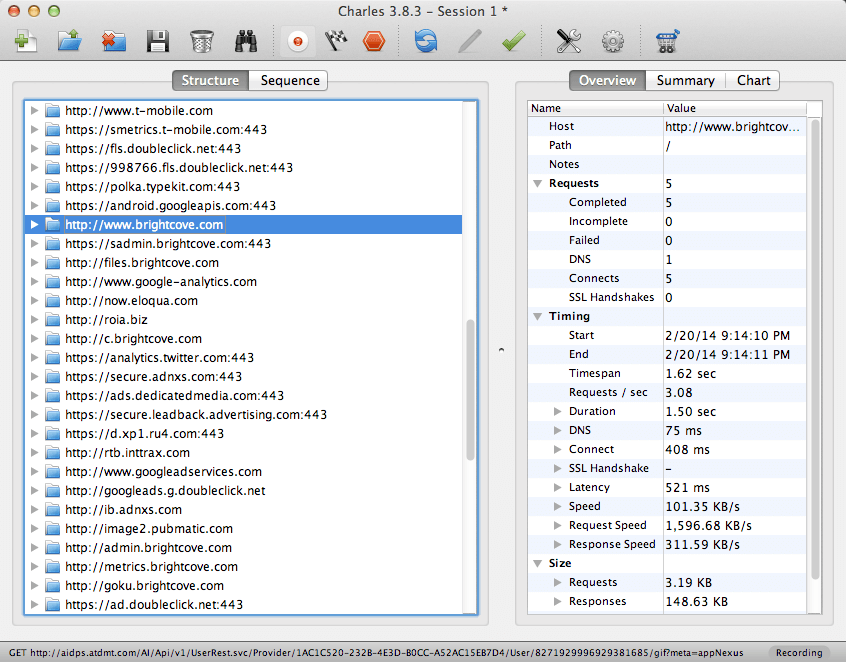
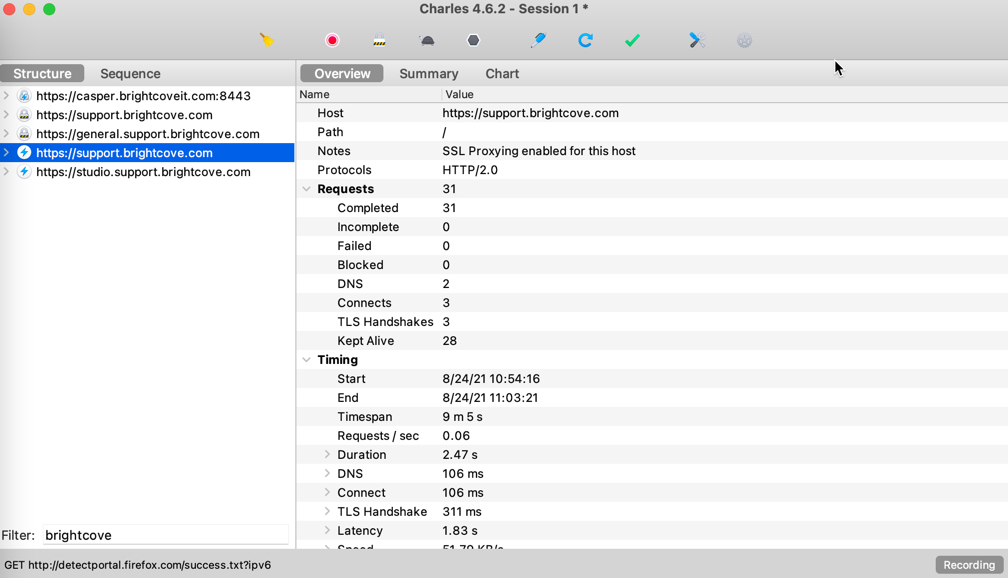
add note

Changed region(s): [[0.0, 0.0, 1.0, 1.0]]

diff --git a/_site/developer/debugging-mobile-devices.html b/_site/developer/debugging-mobile-devices.html
@@ -676,7 +676,7 @@ function doGTranslate(lang_pair) {if(lang_pair.value)lang_pair=lang_pair.value;i
               <figcaption class="bcls-caption--image">Set IP Address</figcaption>
             </figure>
           </li>
-          <li>In your device's default browser, navigate to a website. You will be able to see any data sent and received in Charles.
+          <li>In your device's default browser, navigate to a website. You will be able to see any data sent and received in Charles. Note that it may help to filter the structure list (in this case filter for <strong>brightcove</strong>).
             <figure class="bcls-figure"><img class="bcls-image" alt="See Data Transfer" src="/assets/images/developer/debugging-on-mobile/charles/07-charles.png" />
               <figcaption class="bcls-caption--image">See Data Transfer</figcaption>
             </figure>
@@ -702,7 +702,7 @@ function doGTranslate(lang_pair) {if(lang_pair.value)lang_pair=lang_pair.value;i
 
 <hr>
 <div class="last-updated">
-  Page last updated on 19 Aug 2021
+  Page last updated on 24 Aug 2021
 </div>
 
 

diff --git a/developer/debugging-mobile-devices.html b/developer/debugging-mobile-devices.html
@@ -257,7 +257,7 @@ parent: Developers
               <figcaption class="bcls-caption--image">Set IP Address</figcaption>
             </figure>
           </li>
-          <li>In your device's default browser, navigate to a website. You will be able to see any data sent and received in Charles.
+          <li>In your device's default browser, navigate to a website. You will be able to see any data sent and received in Charles. Note that it may help to filter the structure list (in this case filter for <strong>brightcove</strong>).
             <figure class="bcls-figure"><img class="bcls-image" alt="See Data Transfer" src="/assets/images/developer/debugging-on-mobile/charles/07-charles.png" />
               <figcaption class="bcls-caption--image">See Data Transfer</figcaption>
             </figure>
